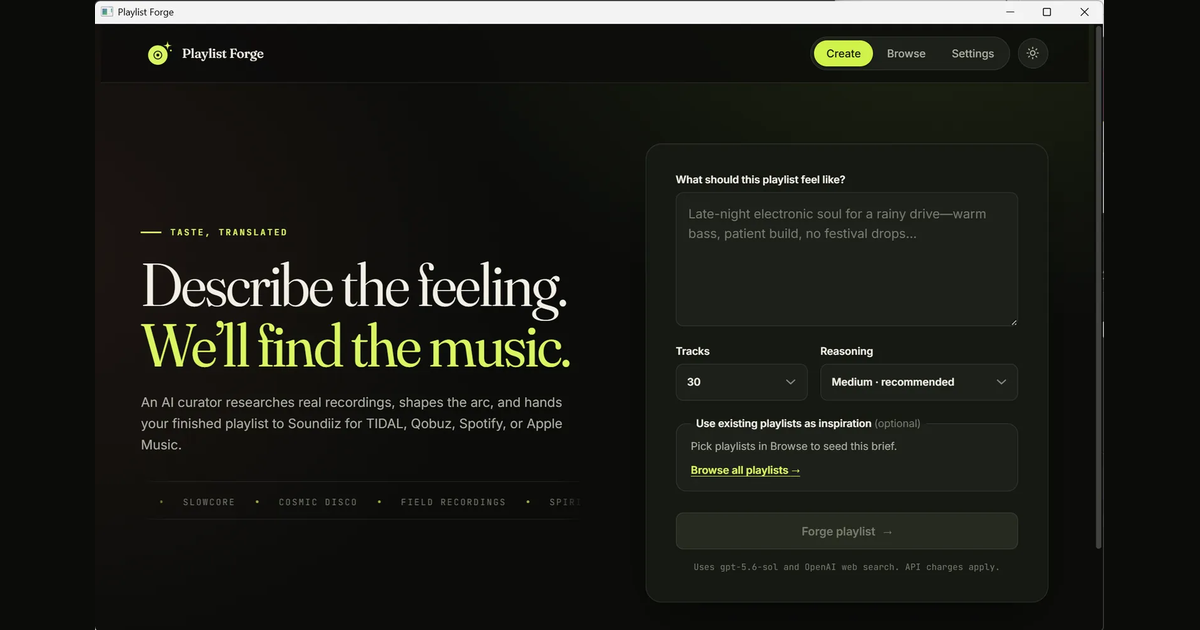
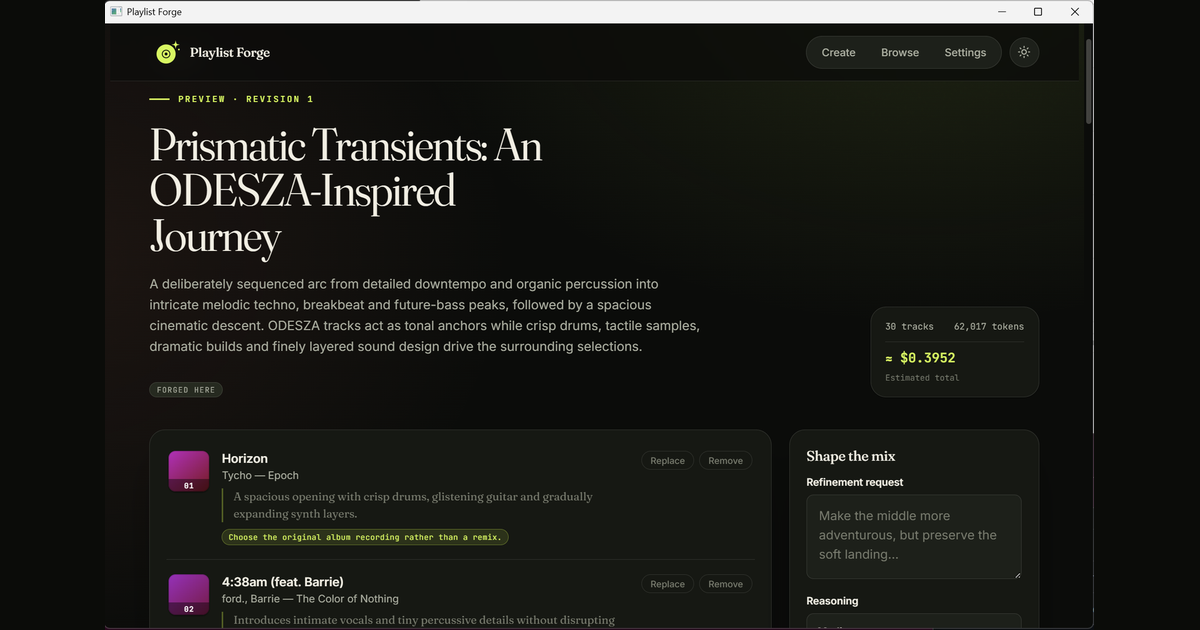
Swap the landing screenshot for a finished playlist
screenshot-3 shows a real generated playlist — title, the sequenced-arc
description, the cost card, and a tracklist with per-track rationale and
recording notes — which sells the product better than the empty composer.

- docs/screenshot.webp regenerated from it; caption and alt text updated.
- OG card rebuilt from the same shot.
- Only a dark capture exists for this view, so the README drops the
  light/dark <picture> and uses the one image.

Claude-Session: https://claude.ai/code/session_01KsVpDMUHpj1U8ntYGTC5KR

diff --git a/docs/index.html b/docs/index.html
@@ -732,11 +732,11 @@
     <section class="shot">
       <div class="wrap">
         <div class="shot-frame">
-          <img src="./screenshot.webp" width="1600" height="999"
-               alt="Playlist Forge on the Create screen: an editorial hero beside the brief composer — a prompt field, track count, reasoning effort, and an inspiration picker."
+          <img src="./screenshot.webp" width="1600" height="1019"
+               alt="A finished playlist in Playlist Forge: the title 'Prismatic Transients', a description of its sequenced arc, a cost estimate, and a tracklist where each track carries a rationale and a recording note, beside a refinement panel."
                loading="lazy" decoding="async" />
         </div>
-        <p class="shot-cap">The composer: describe the feeling, set the size and reasoning effort, and forge.</p>
+        <p class="shot-cap">A finished playlist: the arc, a per-track rationale and recording note, and the run's cost — every track reviewable before you hand it off.</p>
       </div>
     </section>
 

diff --git a/README.md b/README.md
@@ -14,10 +14,7 @@ operating system's native webview. There is no server, no bundled runtime, and n
 database service — just an executable and a local SQLite file.
 
 <p align="center">
-  <picture>
-    <source media="(prefers-color-scheme: light)" srcset="docs/screenshot-light.webp" />
-    <img src="docs/screenshot.webp" width="820" alt="Playlist Forge on the Create screen: the brief composer beside the editorial hero." />
-  </picture>
+  <img src="docs/screenshot.webp" width="820" alt="A finished playlist in Playlist Forge: a title, a description of its sequenced arc, a cost estimate, and a tracklist where each track carries a rationale and a recording note." />
 </p>
 
 ---
